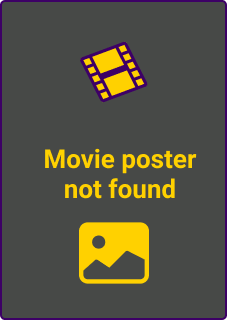
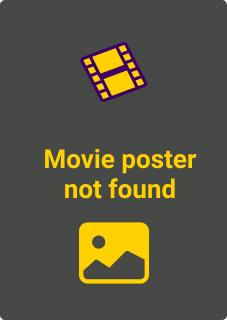
Ajeita bug, imagem de filme não encontrado agora aparece no modal também

Changed region(s): [[0.0, 0.0, 1.0, 1.0]]

diff --git a/assets/js/views/FilmeView.js b/assets/js/views/FilmeView.js
@@ -86,7 +86,7 @@ class FilmeView {
             <div class="bg-img"></div>
             <div class="row g-0">
               <div class="col-md-4 align-self-center d-flex justify-content-center">
-                <img class="img-fluid rounded shadow img-modal" src="${this.model.img}" alt="Poster of the movie ${this.model.titulo}">
+                <img class="img-fluid rounded shadow img-modal" src="${this.model.defineImagem('../../assets/images/movie-not-found-modal.png')}" alt="Poster of the movie ${this.model.titulo}">
               </div>
               <div class="col-md-8">
                 <div class="card-body">

diff --git a/assets/js/models/Filme.js b/assets/js/models/Filme.js
@@ -127,4 +127,8 @@ class Filme {
   jaTemTrailer() {
     return this.trailer !== null;
   }
+
+  defineImagem(caminhoImg) {
+    return this.img === 'N/A' ? caminhoImg : this.img;
+  }
 }
